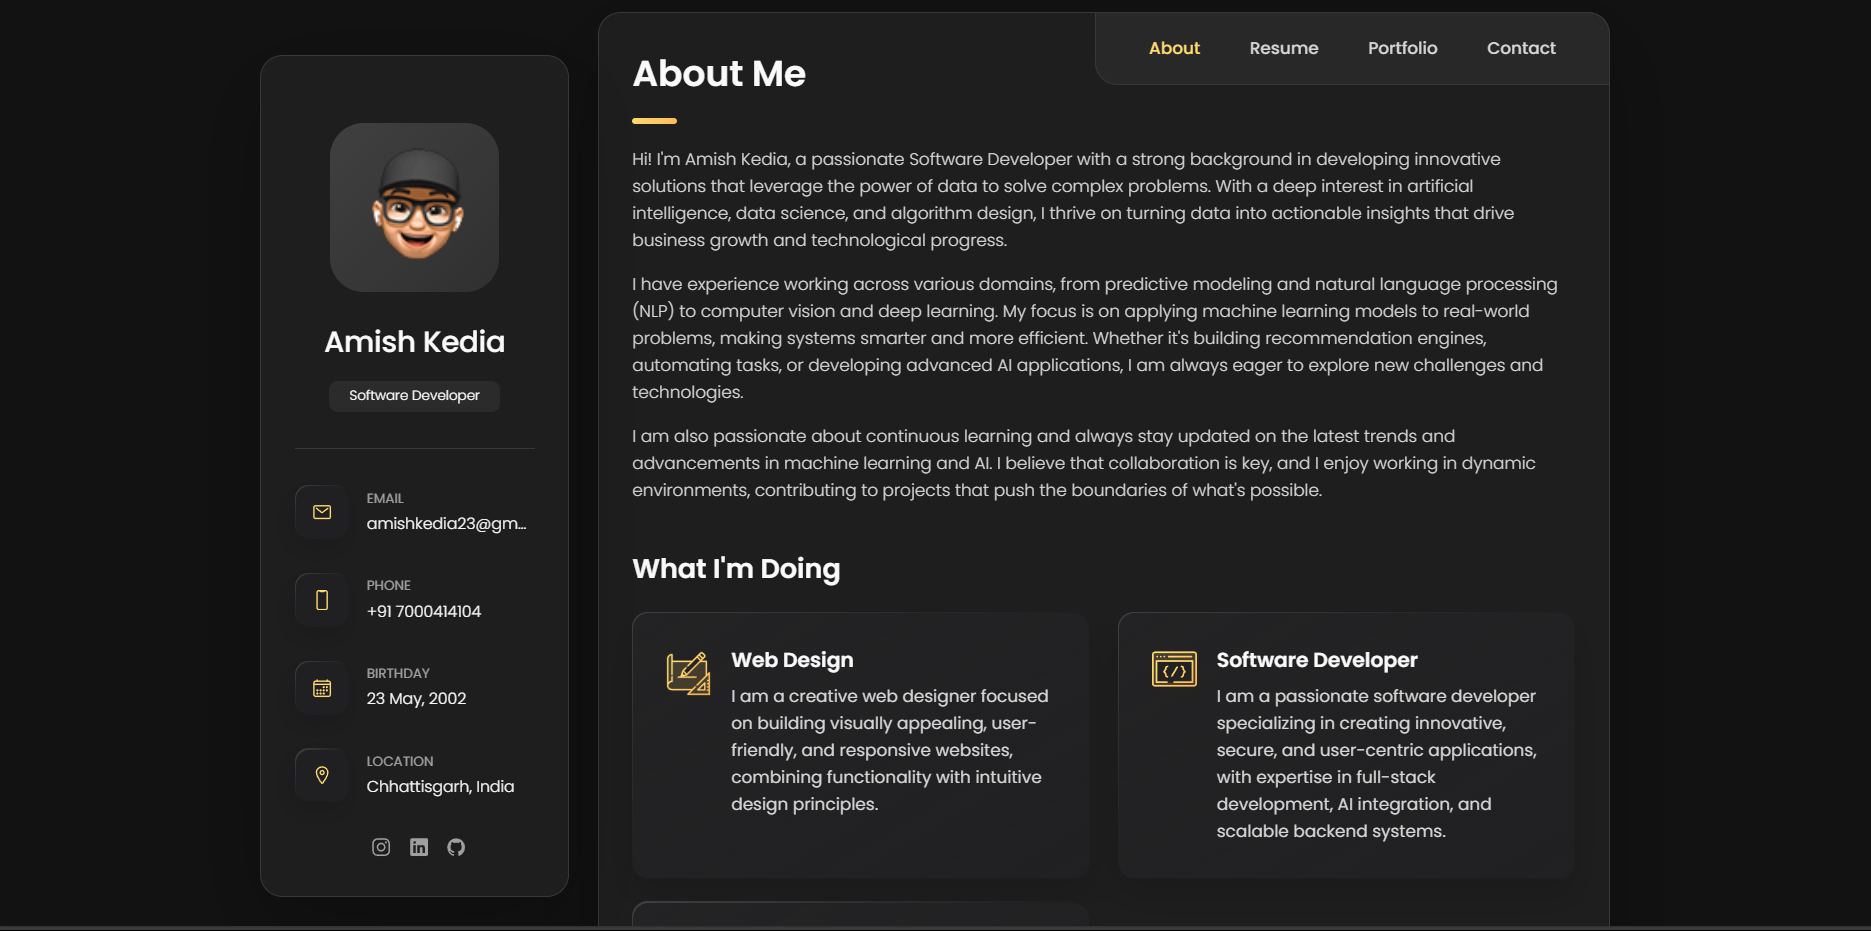
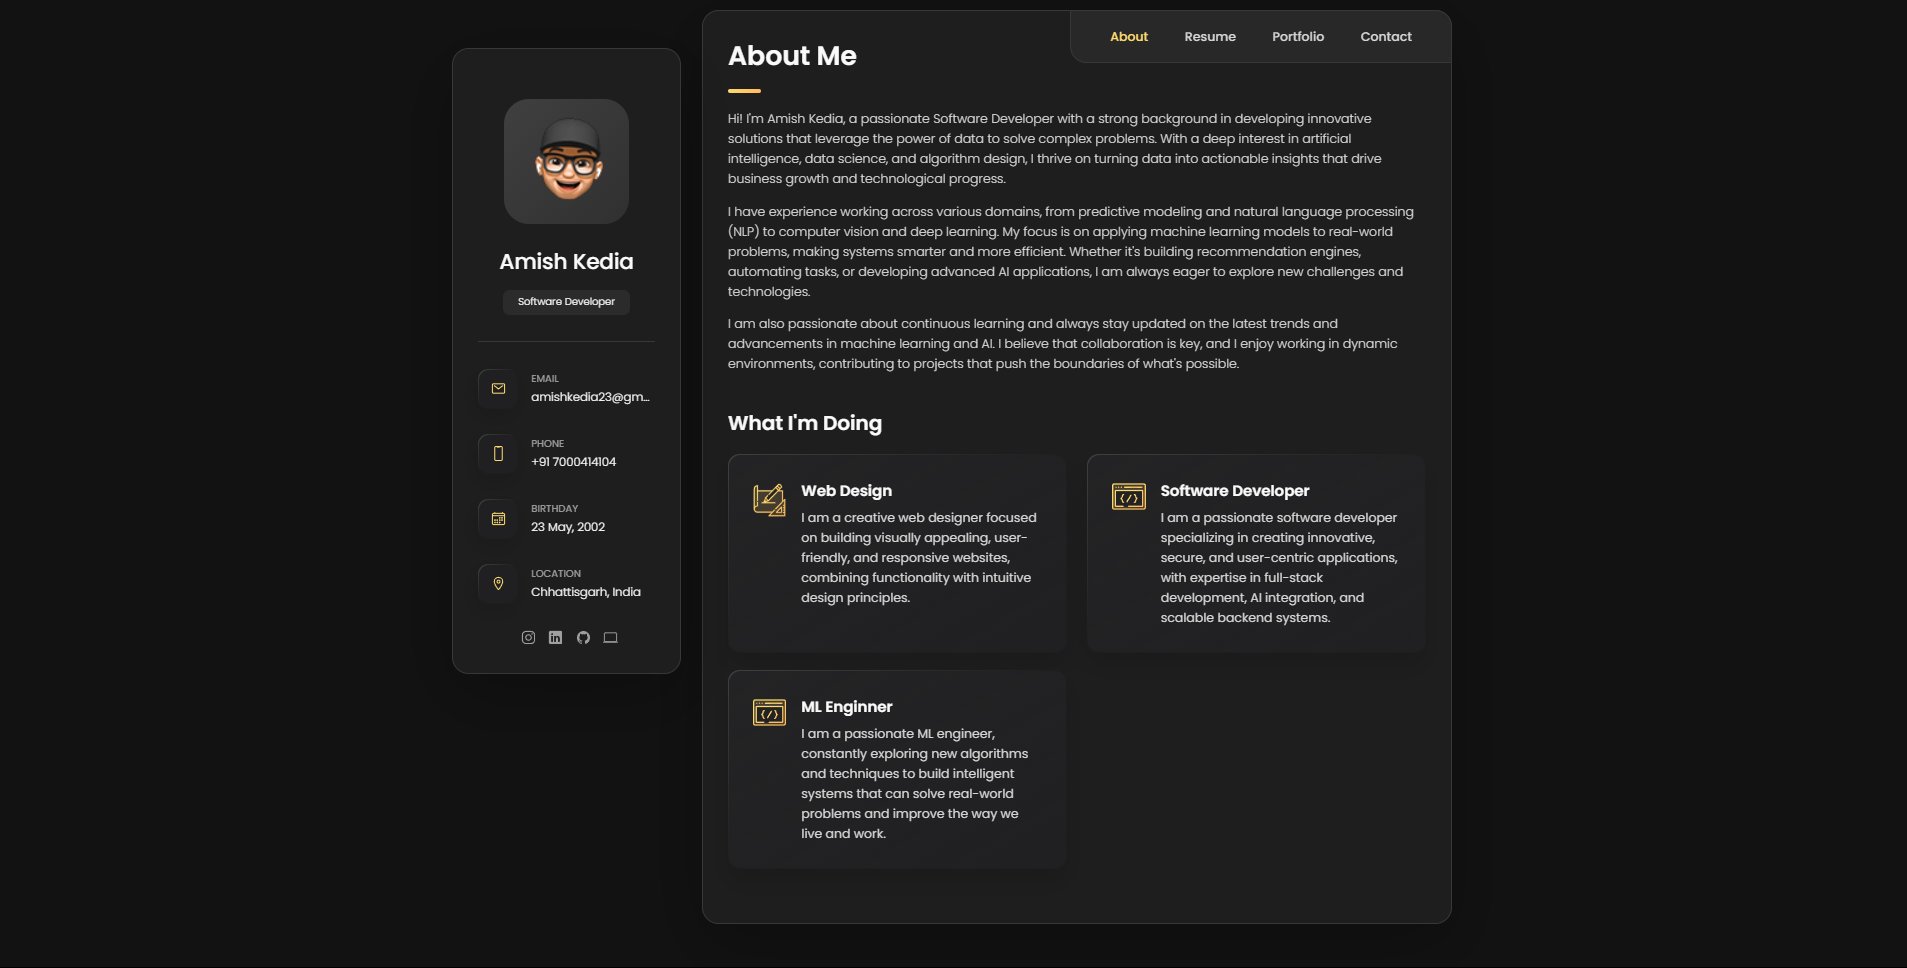
portfolio

diff --git a/index.html b/index.html
@@ -5,15 +5,15 @@
   <meta charset="UTF-8">
   <meta http-equiv="X-UA-Compatible" content="IE=edge">
   <meta name="viewport" content="width=device-width, initial-scale=1.0">
-  <title>vCard - Personal Portfolio</title>
+  <title>Amish - Personal Portfolio</title>
 
   <!--
     - favicon
   -->
-  <link rel="shortcut icon" href="./assets/images/logo.ico" type="image/x-icon">
+  <link rel="shortcut icon" href="./assets/images/avatar-1.png" type="image/x-icon">
 
   <!--
-    - custom css link
+    - custom css linkx
   -->
   <link rel="stylesheet" href="./assets/css/style.css">
 
@@ -88,7 +88,7 @@
             <div class="contact-info">
               <p class="contact-title">Phone</p>
 
-              <a href="tel:+12133522795" class="contact-link">+91 7000414104</a>
+              <a href="tel:+917000414104" class="contact-link">+91 7000414104</a>
             </div>
 
           </li>
@@ -140,8 +140,13 @@
           </li>
 
           <li class="social-item">
-            <a href="https://github.com/amishkedia  " class="social-link">
+            <a href="https://github.com/amishkedia23 " class="social-link">
               <ion-icon name="logo-github"></ion-icon>
+            </a>
+          </li>
+          <li class="social-item">
+            <a href="https://www.geeksforgeeks.org/user/amishkedia/" class="social-link">
+              <ion-icon name="laptop-outline"></ion-icon>
             </a>
           </li>
 
@@ -281,7 +286,7 @@
               </div>
 
               <div class="service-content-box">
-                <h4 class="h4 service-item-title">ML Enginner</h4>
+                <h4 class="h4 service-item-title">ML Engineer</h4>
 
                 <p class="service-item-text">
                   I am a passionate ML engineer, constantly exploring new algorithms and techniques to build intelligent
@@ -661,7 +666,7 @@
           <ul class="project-list">
 
             <li class="project-item  active" data-filter-item data-category="web development">
-              <a href="#">
+              <a href="https://github.com/amishkedia/portfolion">
 
                 <figure class="project-img">
                   <div class="project-item-icon-box">
@@ -677,9 +682,27 @@
 
               </a>
             </li>
+            <li class="project-item  active" data-filter-item data-category="applications">
+              <a href="https://github.com/amishkedia23/Youtube-Comment-sentiment-Analysis?tab=readme-ov-file">
+
+                <figure class="project-img">
+                  <div class="project-item-icon-box">
+                    <ion-icon name="eye-outline"></ion-icon>
+                  </div>
+
+                  <img src="./assets/images/sentiment.png" alt="finance" loading="lazy">
+                </figure>
+
+                <h3 class="project-title">Youtube Comment Sentiment Analysis</h3>
+
+                <p class="project-category">Applications</p>
+
+              </a>
+            </li>
+
 
             <li class="project-item  active" data-filter-item data-category="web development">
-              <a href="#">
+              <a href="https://github.com/amishkedia23/E-Commerce-website">
 
                 <figure class="project-img">
                   <div class="project-item-icon-box">
@@ -696,26 +719,10 @@
               </a>
             </li>
 
-            <li class="project-item  active" data-filter-item data-category="research paper">
-              <a href="https://www.overleaf.com/read/dvmcrndmvkbs#776c28">
 
-                <figure class="project-img">
-                  <div class="project-item-icon-box">
-                    <ion-icon name="eye-outline"></ion-icon>
-                  </div>
-
-                  <img src="./assets/images/research.png" alt="fundo" loading="lazy">
-                </figure>
-
-                <h3 class="project-title">MathCrypt Secure Algorithm</h3>
-
-                <p class="project-category">Research Paper</p>
-
-              </a>
-            </li>
 
             <li class="project-item  active" data-filter-item data-category="applications">
-              <a href="https://github.com/amishkedia/Gesture_speak_AI.git">
+              <a href="https://github.com/amishkedia23/GestureSpeak-AI/tree/master">
 
                 <figure class="project-img">
                   <div class="project-item-icon-box">
@@ -770,6 +777,23 @@
 
               </a>
             </li>
+            <li class="project-item  active" data-filter-item data-category="research paper">
+              <a href="https://github.com/amishkedia23/MathCrypt-Secure-Algorithm">
+
+                <figure class="project-img">
+                  <div class="project-item-icon-box">
+                    <ion-icon name="eye-outline"></ion-icon>
+                  </div>
+
+                  <img src="./assets/images/research.png" alt="fundo" loading="lazy">
+                </figure>
+
+                <h3 class="project-title">MathCrypt Secure Algorithm</h3>
+
+                <p class="project-category">Research Paper</p>
+
+              </a>
+            </li>
           </ul>
 
         </section>
@@ -781,193 +805,7 @@
 
 
 
-      <!--
-        - #BLOG
-      -->
 
-      <article class="blog" data-page="blog">
-
-        <header>
-          <h2 class="h2 article-title">Blog</h2>
-        </header>
-
-        <section class="blog-posts">
-
-          <ul class="blog-posts-list">
-
-            <li class="blog-post-item">
-              <a href="#">
-
-                <figure class="blog-banner-box">
-                  <img src="./assets/images/blog-1.jpg" alt="Design conferences in 2022" loading="lazy">
-                </figure>
-
-                <div class="blog-content">
-
-                  <div class="blog-meta">
-                    <p class="blog-category">Design</p>
-
-                    <span class="dot"></span>
-
-                    <time datetime="2022-02-23">Fab 23, 2022</time>
-                  </div>
-
-                  <h3 class="h3 blog-item-title">Design conferences in 2022</h3>
-
-                  <p class="blog-text">
-                    Veritatis et quasi architecto beatae vitae dicta sunt, explicabo.
-                  </p>
-
-                </div>
-
-              </a>
-            </li>
-
-            <li class="blog-post-item">
-              <a href="#">
-
-                <figure class="blog-banner-box">
-                  <img src="./assets/images/blog-2.jpg" alt="Best fonts every designer" loading="lazy">
-                </figure>
-
-                <div class="blog-content">
-
-                  <div class="blog-meta">
-                    <p class="blog-category">Design</p>
-
-                    <span class="dot"></span>
-
-                    <time datetime="2022-02-23">Fab 23, 2022</time>
-                  </div>
-
-                  <h3 class="h3 blog-item-title">Best fonts every designer</h3>
-
-                  <p class="blog-text">
-                    Sed ut perspiciatis, nam libero tempore, cum soluta nobis est eligendi.
-                  </p>
-
-                </div>
-
-              </a>
-            </li>
-
-            <li class="blog-post-item">
-              <a href="#">
-
-                <figure class="blog-banner-box">
-                  <img src="./assets/images/blog-3.jpg" alt="Design digest #80" loading="lazy">
-                </figure>
-
-                <div class="blog-content">
-
-                  <div class="blog-meta">
-                    <p class="blog-category">Design</p>
-
-                    <span class="dot"></span>
-
-                    <time datetime="2022-02-23">Fab 23, 2022</time>
-                  </div>
-
-                  <h3 class="h3 blog-item-title">Design digest #80</h3>
-
-                  <p class="blog-text">
-                    Excepteur sint occaecat cupidatat no proident, quis nostrum exercitationem ullam corporis suscipit.
-                  </p>
-
-                </div>
-
-              </a>
-            </li>
-
-            <li class="blog-post-item">
-              <a href="#">
-
-                <figure class="blog-banner-box">
-                  <img src="./assets/images/blog-4.jpg" alt="UI interactions of the week" loading="lazy">
-                </figure>
-
-                <div class="blog-content">
-
-                  <div class="blog-meta">
-                    <p class="blog-category">Design</p>
-
-                    <span class="dot"></span>
-
-                    <time datetime="2022-02-23">Fab 23, 2022</time>
-                  </div>
-
-                  <h3 class="h3 blog-item-title">UI interactions of the week</h3>
-
-                  <p class="blog-text">
-                    Enim ad minim veniam, consectetur adipiscing elit, quis nostrud exercitation ullamco laboris nisi.
-                  </p>
-
-                </div>
-
-              </a>
-            </li>
-
-            <li class="blog-post-item">
-              <a href="#">
-
-                <figure class="blog-banner-box">
-                  <img src="./assets/images/blog-5.jpg" alt="The forgotten art of spacing" loading="lazy">
-                </figure>
-
-                <div class="blog-content">
-
-                  <div class="blog-meta">
-                    <p class="blog-category">Design</p>
-
-                    <span class="dot"></span>
-
-                    <time datetime="2022-02-23">Fab 23, 2022</time>
-                  </div>
-
-                  <h3 class="h3 blog-item-title">The forgotten art of spacing</h3>
-
-                  <p class="blog-text">
-                    Maxime placeat, sed do eiusmod tempor incididunt ut labore et dolore magna aliqua.
-                  </p>
-
-                </div>
-
-              </a>
-            </li>
-
-            <li class="blog-post-item">
-              <a href="#">
-
-                <figure class="blog-banner-box">
-                  <img src="./assets/images/blog-6.jpg" alt="Design digest #79" loading="lazy">
-                </figure>
-
-                <div class="blog-content">
-
-                  <div class="blog-meta">
-                    <p class="blog-category">Design</p>
-
-                    <span class="dot"></span>
-
-                    <time datetime="2022-02-23">Fab 23, 2022</time>
-                  </div>
-
-                  <h3 class="h3 blog-item-title">Design digest #79</h3>
-
-                  <p class="blog-text">
-                    Optio cumque nihil impedit uo minus quod maxime placeat, velit esse cillum.
-                  </p>
-
-                </div>
-
-              </a>
-            </li>
-
-          </ul>
-
-        </section>
-
-      </article>
 
 
 
@@ -1019,11 +857,6 @@
     </div>
 
   </main>
-
-
-
-
-
 
   <!--
     - custom js link
